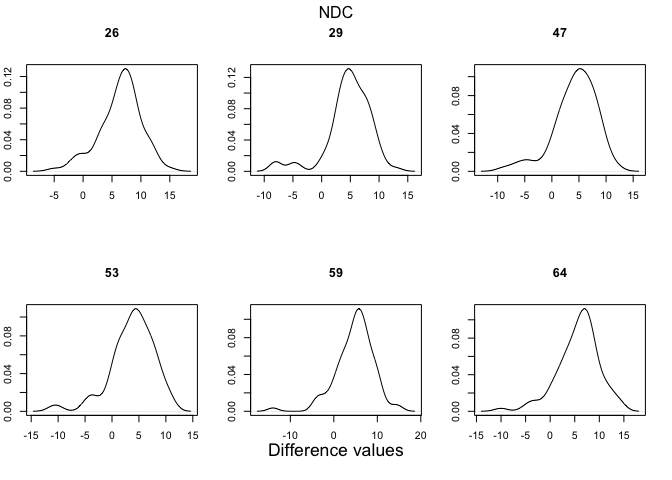
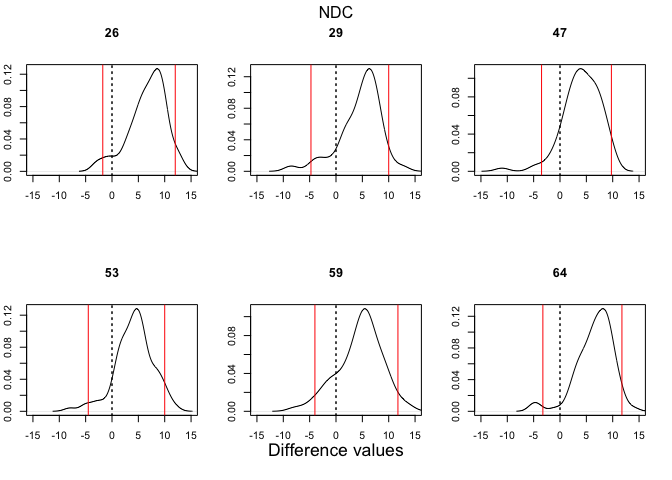
update readme

diff --git a/README.md b/README.md
@@ -94,42 +94,42 @@ suppressWarnings(thomomys <- p2c2m2.complete(inPath, inFile, num.reps=10, error.
 #> 
 #> Calculating differences btw. 1000 pods and the post. predictive distribution to estimate error rates
 
-thomomys$results$alpha0.01
+thomomys$results$alpha0.05
 #> $perGene
 #>    LCWT[2]              NDC[2]             
-#> 26 "-3.09 (±6.81) n.s." "6.44 (±3.62) n.s."
-#> 29 "-1.78 (±5.55) n.s." "4.74 (±3.9) n.s." 
-#> 47 "-1.36 (±6.19) n.s." "4.31 (±3.96) n.s."
-#> 53 "-3.12 (±6.95) n.s." "3.79 (±4.09) n.s."
-#> 59 "-0.6 (±7.48) n.s."  "4.84 (±4.32) n.s."
-#> 64 "-2.9 (±6.72) n.s."  "5.73 (±4.23) n.s."
-#> 72 "-0.28 (±5.29) n.s." "2.09 (±4.65) n.s."
+#> 26 "-2.18 (±5.52) n.s." "6.71 (±3.52) n.s."
+#> 29 "-2.05 (±5.86) n.s." "4.58 (±4) n.s."   
+#> 47 "-2.25 (±7.4) n.s."  "4.11 (±3.55) n.s."
+#> 53 "-1.96 (±5.34) n.s." "4.18 (±3.59) n.s."
+#> 59 "-0.42 (±8.7) n.s."  "4.53 (±4.25) n.s."
+#> 64 "-2.35 (±6.31) n.s." "6.63 (±3.47) n.s."
+#> 72 "-0.69 (±6.48) n.s." "1.67 (±4.9) n.s." 
 #> 
 #> $acrGenes
-#>        LCWT[2]                NDC[2]               
-#> Sum    "-13.14 (±25.34) n.s." "31.92 (±14.65) n.s."
-#> Mean   "-1.88 (±3.62) n.s."   "4.56 (±2.09) n.s."  
-#> Median "0 (±0) n.s."          "5 (±1.2) *"         
-#> Mode   "0 (±0) 0"             "5.29 (±1.59) *"     
-#> CV     "-13.73 (±90.42) n.s." "0.08 (±6.75) n.s."  
+#>        LCWT[2]               NDC[2]            
+#> Sum    "-11.9 (±26.71) n.s." "32.41 (±14.28) *"
+#> Mean   "-1.7 (±3.82) n.s."   "4.63 (±2.04) *"  
+#> Median "0 (±0) n.s."         "4.86 (±1.65) *"  
+#> Mode   "0 (±0) 0"            "6.29 (±1.99) *"  
+#> CV     "5.02 (±70.76) n.s."  "1.31 (±2.48) *"  
 #> 
 #> $perGene.error
 #>    LCWT[2] NDC[2]
-#> 26   0.018  0.000
-#> 29   0.027  0.034
-#> 47   0.027  0.020
-#> 53   0.029  0.024
-#> 59   0.034  0.012
-#> 64   0.021  0.041
-#> 72   0.020  0.017
+#> 26   0.080  0.039
+#> 29   0.065  0.065
+#> 47   0.078  0.073
+#> 53   0.069  0.052
+#> 59   0.067  0.060
+#> 64   0.072  0.056
+#> 72   0.067  0.061
 #> 
 #> $acrGenes.error
 #>        LCWT[2] NDC[2]
-#> Sum      0.027  0.018
-#> Mean     0.027  0.018
-#> Median   0.702  0.256
-#> Mode     0.633  0.197
-#> CV       0.018  0.018
+#> Sum      0.092  0.069
+#> Mean     0.092  0.069
+#> Median   0.701  0.232
+#> Mode     0.539  0.207
+#> CV       0.052  0.069
 
 thomomys$results$legend
 #> [1] "Differences between the posterior and the posterior predictive distributions per locus and across loci. Each cell contains the following information in said order: mean, standard deviation, significance level. Error rates (if estimated with option error.rate=TRUE) are based on differences between the pods and the posterior predictive distributions. Codes in square brackets indicate the number of tails. Alpha values are automatically adjusted for the number of tails."
@@ -140,7 +140,11 @@ statistic:
 
 ``` r
 graphics::par(mfrow=c(2,3), mar=c(5, 2, 5, 2) + 0.1)
-for (i in 1:6){plot(density(thomomys$metaData$NDC$dif[,i]),main=noquote(thomomys$inData$loci$dta[[i]]),xlab="",ylab="")}
+for (i in 1:6){
+plot(density(thomomys$metaData$NDC$dif[,i]),main=noquote(thomomys$inData$loci$dta[[i]]),xlab="",ylab="",xlim=c(-15,15))
+abline(v = 0, lty = "dotted", lwd = 1.5, col = "black")
+abline(v = stats::quantile (thomomys$metaData$NDC$dif[,i], probs=c(0.025)), lwd = 1, col = "red")
+abline(v = stats::quantile (thomomys$metaData$NDC$dif[,i], probs=c(0.975)), lwd = 1, col = "red")}
 par(mfrow=c(1,1))
 mtext("Difference values",side=1,cex=1.1,line=3)
 mtext("NDC",side=3,cex=1,line=4)
